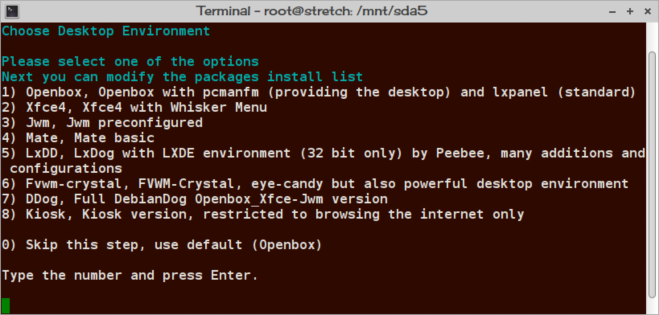
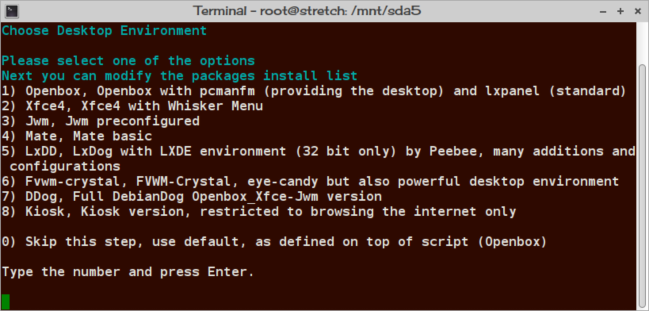
Stretch support, changes

diff --git a/index.html b/index.html
@@ -19,7 +19,7 @@ p.big {
 <a href="isodata-stretch.tar.gz">isodata-stretch.tar.gz</a>                                                    26-Jul-2017 13:11     159K
 <a href="isodata.tar.gz">isodata.tar.gz</a>                                                            26-Jul-2017 14:07     159K
 <a href="mklive">mklive</a>                                                                    30-Mar-2017  8:04     12K
-<a href="mklive-stretch">mklive-stretch</a>                                                            09-Sep-2017 20:59     45K
+<a href="mklive-stretch">mklive-stretch</a>                                                            09-Sep-2017 22:01     45K
 <a href="mklive-stretchgui">mklive-stretchgui</a>                                                         15-Aug-2017 20:27     23K
 <a href="mklive-stretchgui-old">mklive-stretchgui-old</a>                                                     08-Aug-2017 19:55     19K
 <a href="configs">configs/</a>                                                                  08-Sep-2017 23:01     -
@@ -29,7 +29,7 @@ p.big {
 <a href="images">images/</a>                                                                   25-Aug-2017 21:37     -
 <a href="isodata">isodata/</a>                                                                  25-Aug-2017 13:33     -
 <a href="modules">modules/</a>                                                                  08-Sep-2017 22:16     -
-<a href="screenshots">screenshots/</a>                                                              09-Sep-2017 19:33     -
+<a href="screenshots">screenshots/</a>                                                              09-Sep-2017 22:05     -
 <a href="thunar">thunar/</a>                                                                   25-Aug-2017 21:41     -
 </font></p>
 </pre><address>Github Server at https://debiandog.github.io/</address></body></html>

diff --git a/screenshots/index.html b/screenshots/index.html
@@ -9,7 +9,7 @@ p.big {
 <p STYLE="font-size: 13px;" class="big"><a href=https://debiandog.github.io/MakeLive>Parent Directory/</a>
 <a href="DE_config-old.png">DE_config-old.png</a>                                                         03-Sep-2017 16:11     113K
 <a href="DE_config.png">DE_config.png</a>                                                             08-Sep-2017 22:47     119K
-<a href="DE_config_cli.png">DE_config_cli.png</a>                                                         09-Sep-2017 19:31     110K
+<a href="DE_config_cli.png">DE_config_cli.png</a>                                                         09-Sep-2017 22:04     113K
 <a href="LxDD.png">LxDD.png</a>                                                                  26-Aug-2017  0:04     168K
 <a href="fvwd-crystal.png">fvwd-crystal.png</a>                                                          27-Aug-2017  0:48     426K
 <a href="mate.png">mate.png</a>                                                                  25-Aug-2017 23:07     25K
